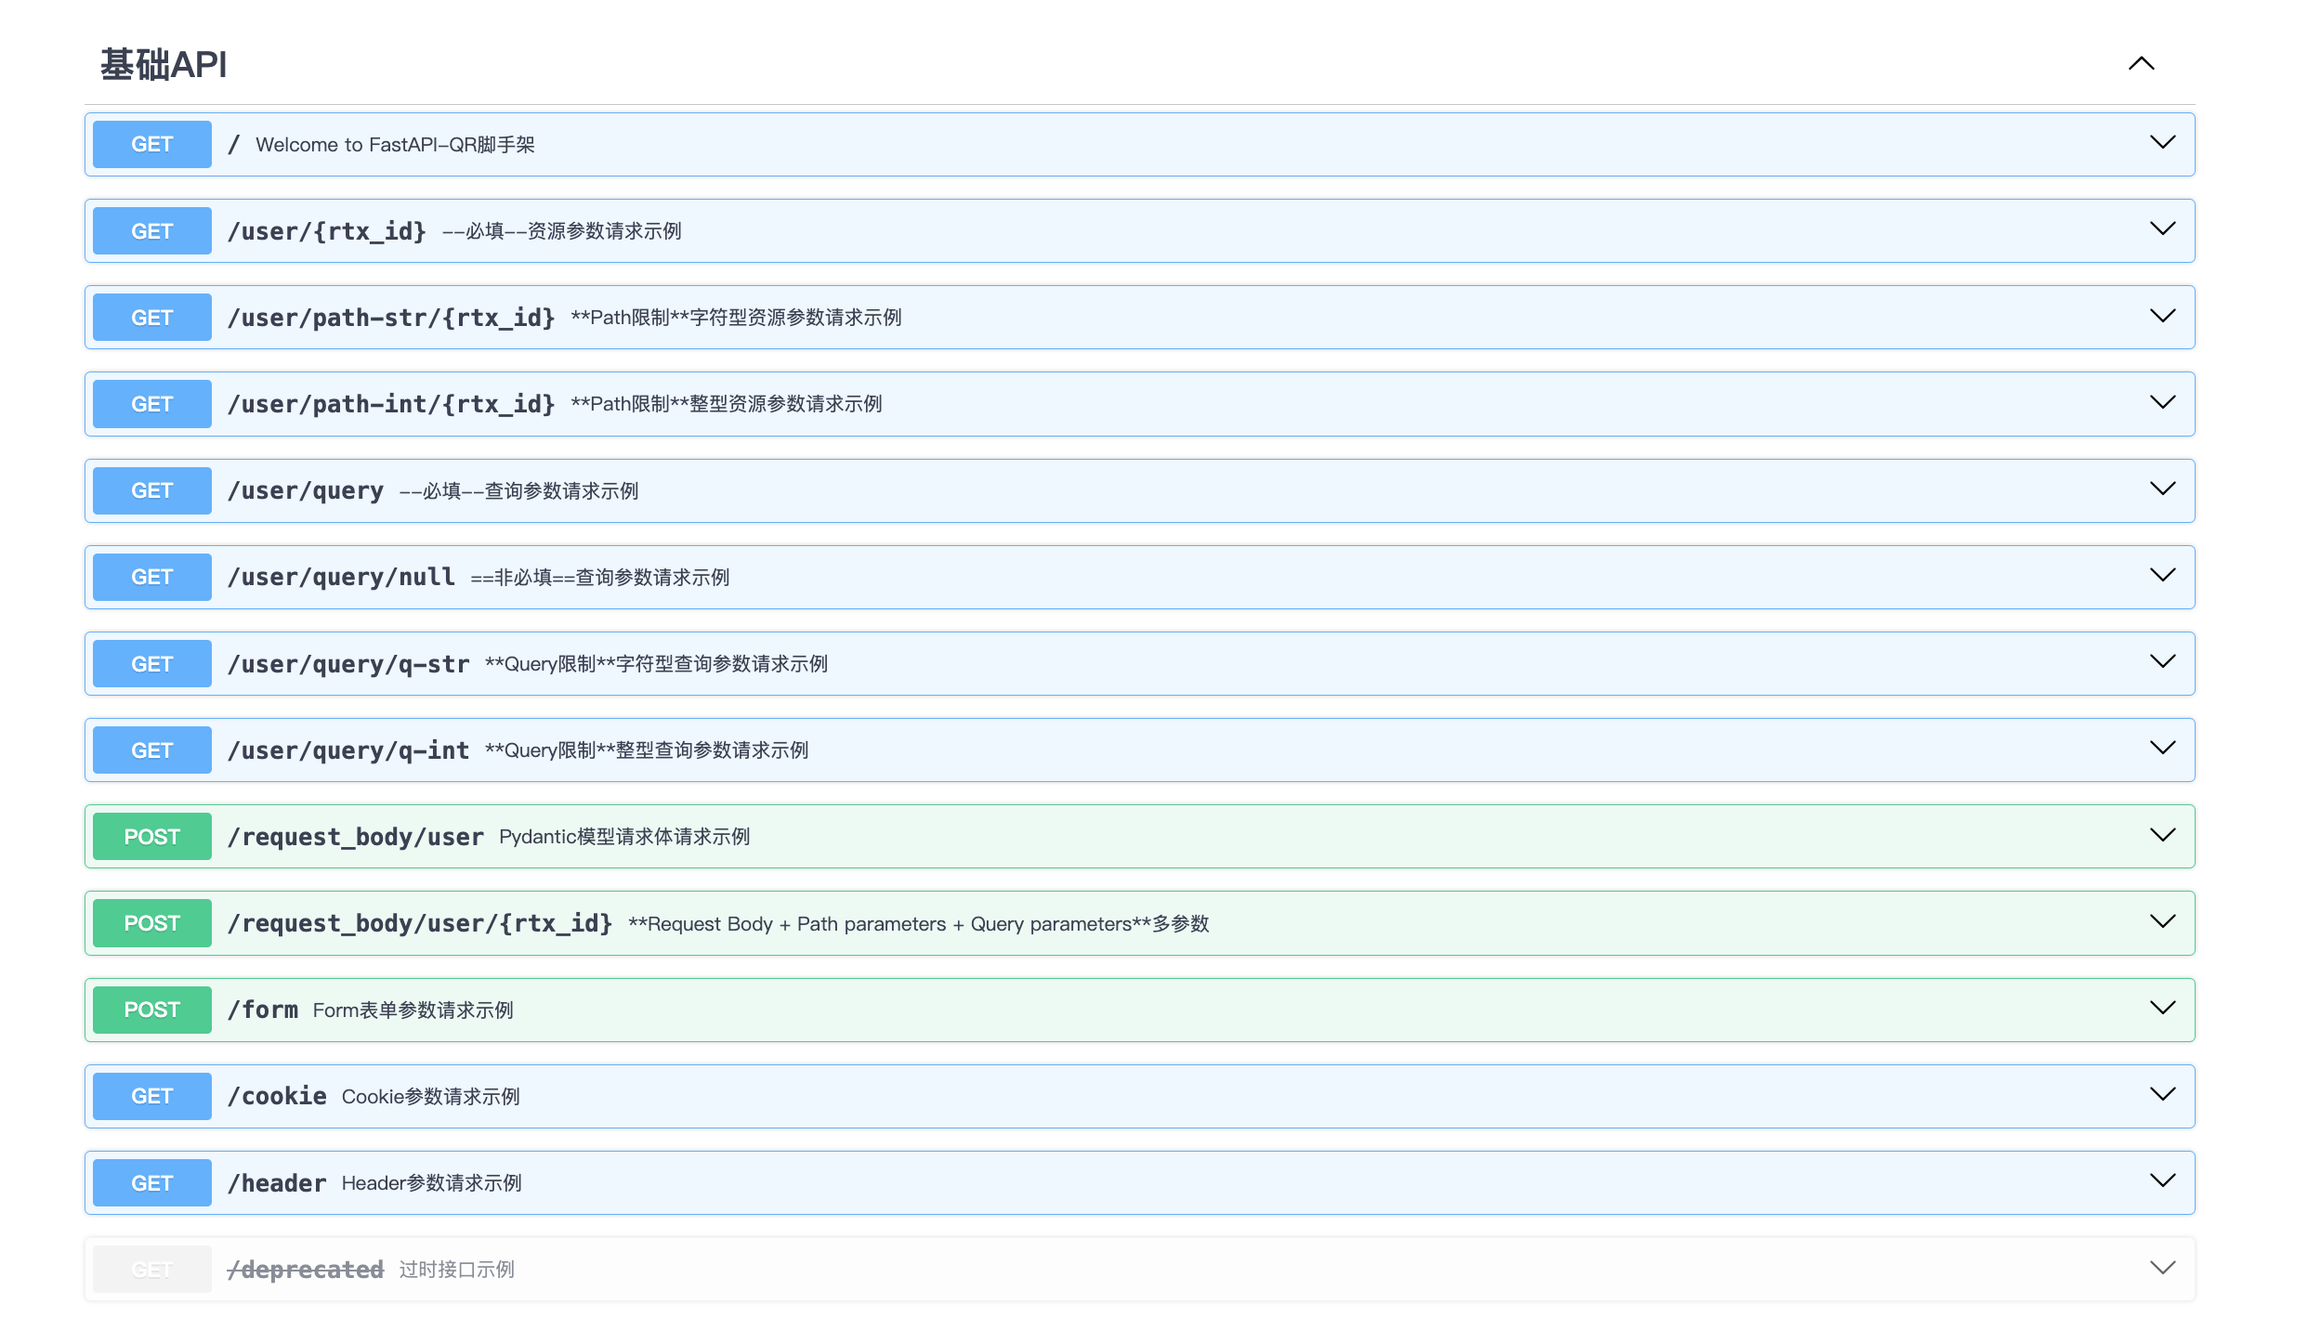
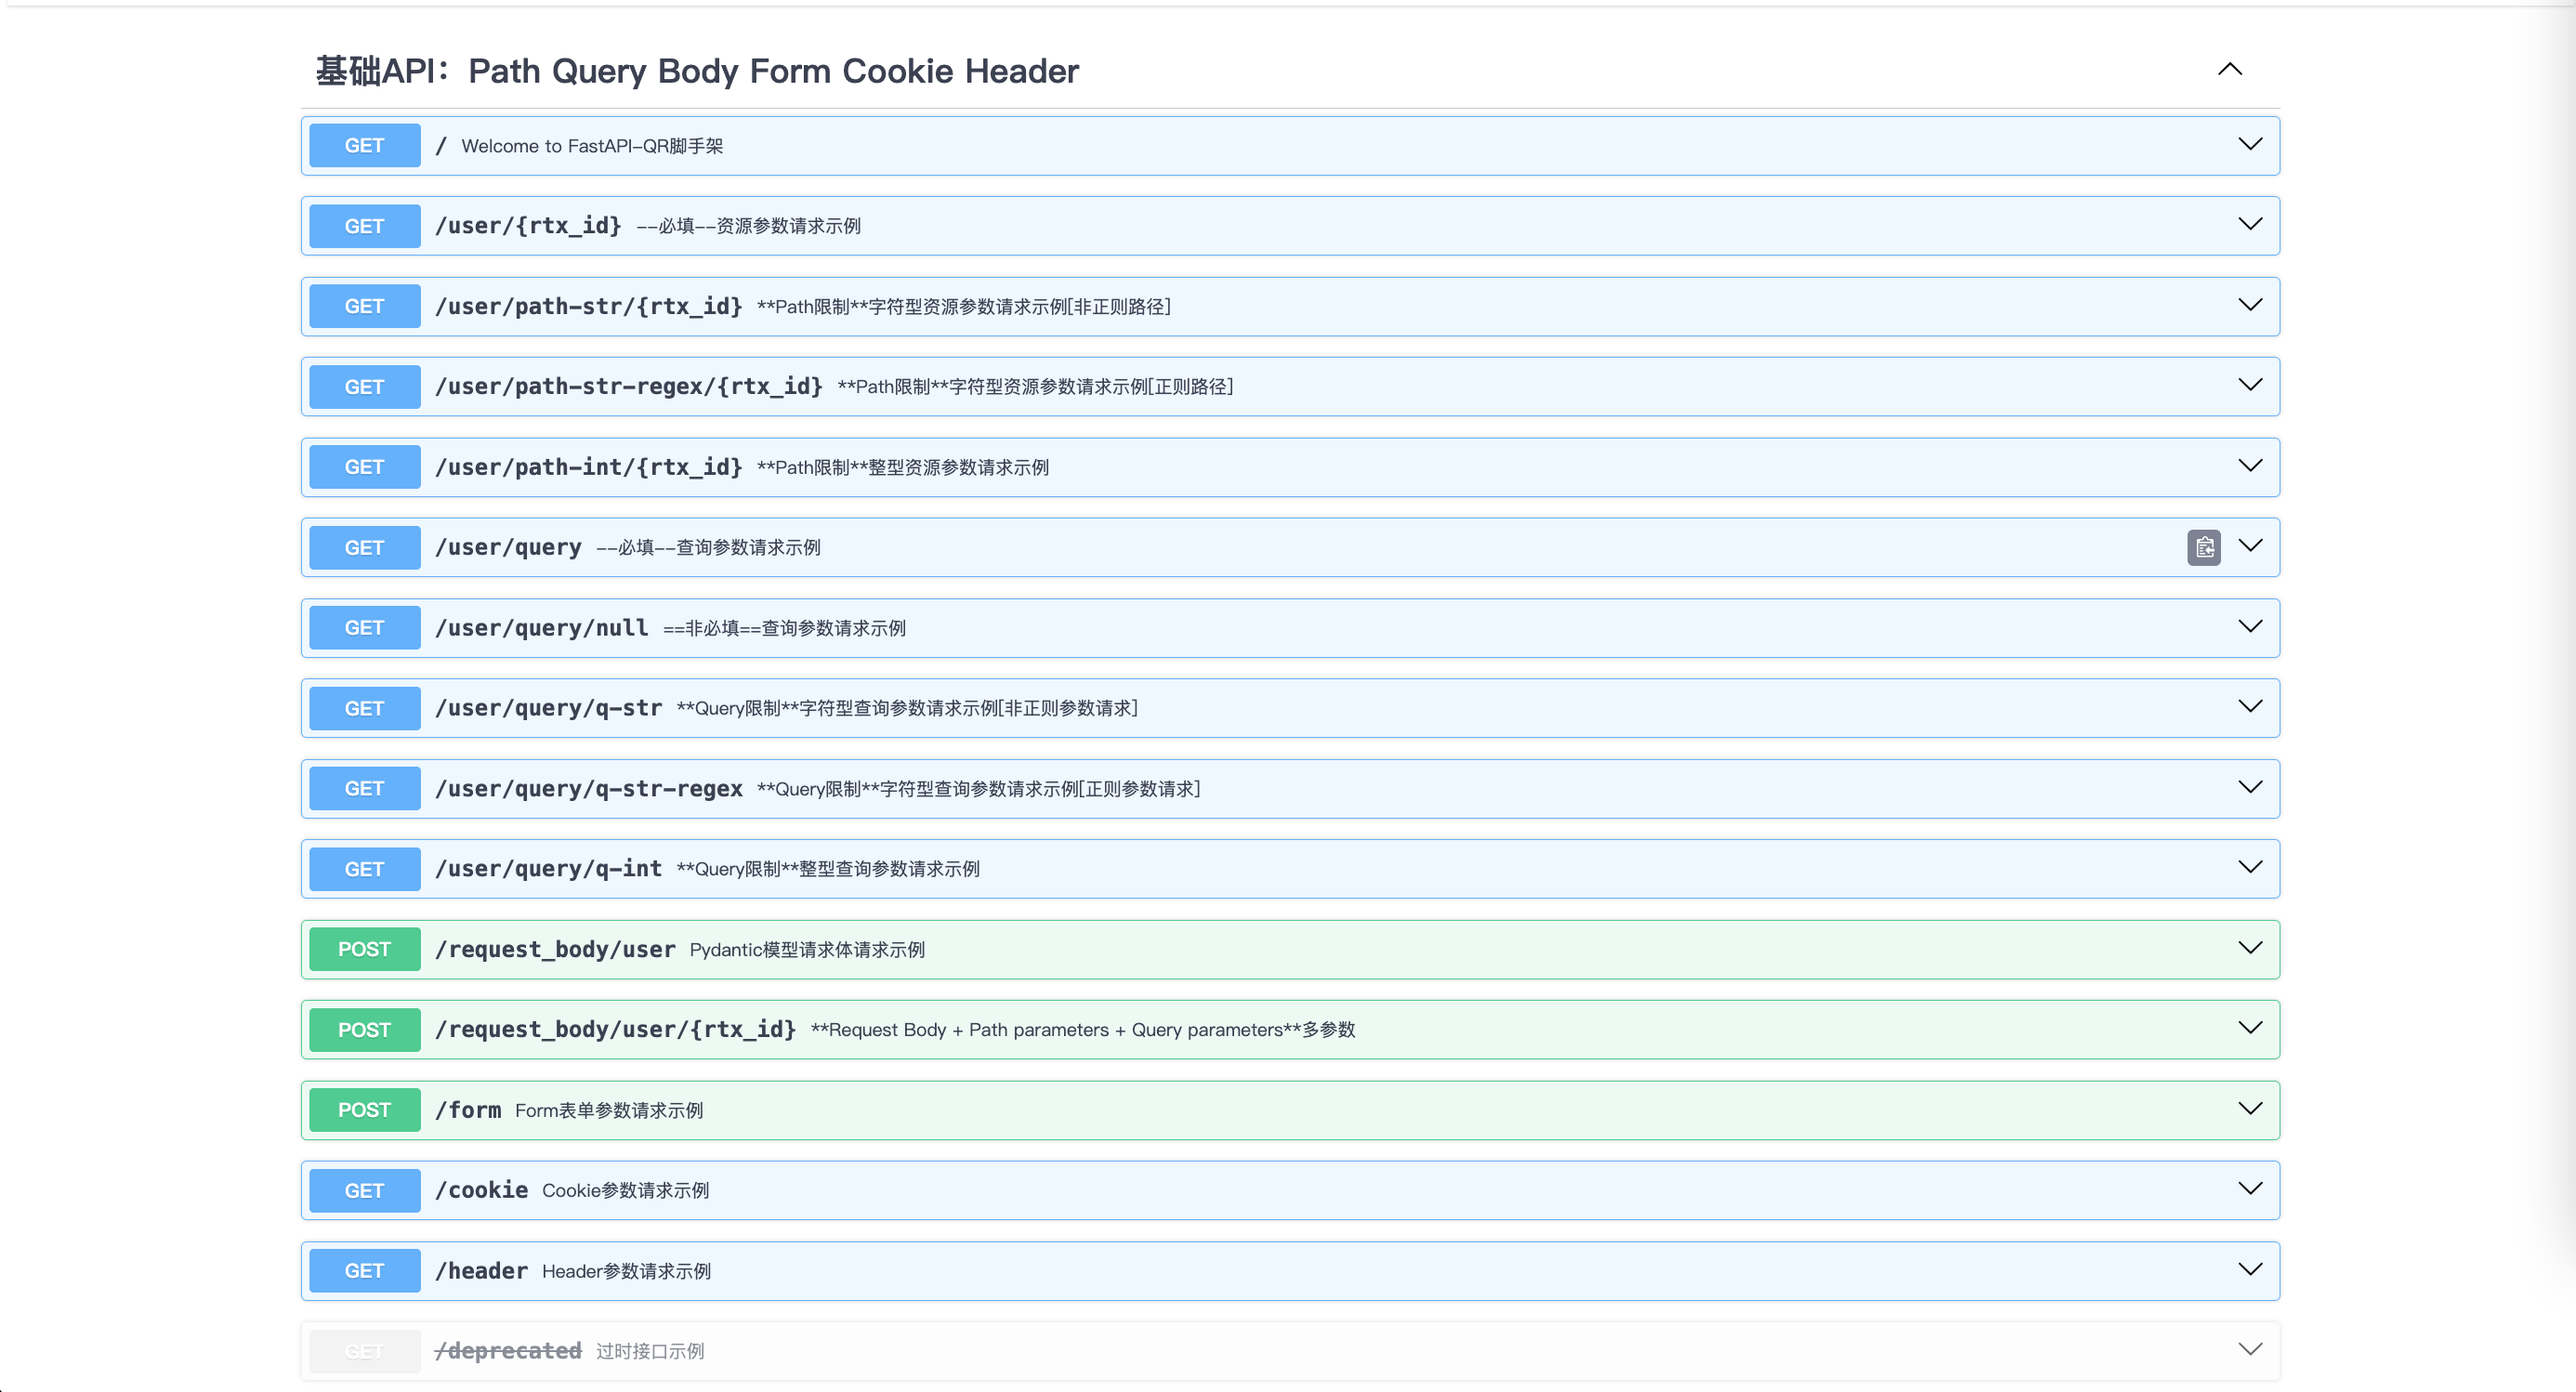
更新README.md图片

Changed region(s): [[0.031, 0.0311, 0.899, 0.9959], [0.868, 0.3112, 0.899, 0.3423], [0.868, 0.249, 0.899, 0.2801]]

diff --git a/README.md b/README.md
@@ -24,6 +24,9 @@ https://github.com/GIS90/fastapi-qr/wiki
 ![Image](./deploy/static/api/05.png)  
 ![Image](./deploy/static/api/06.png)  
 ![Image](./deploy/static/api/07.png)  
+![Image](./deploy/static/api/08.png)  
+![Image](./deploy/static/api/09.png)  
+![Image](./deploy/static/api/10.png)  
 
 
 > ## 脚手架架构
